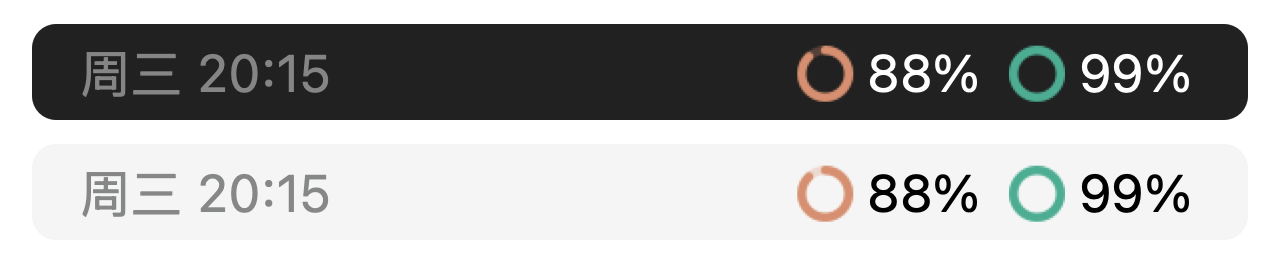
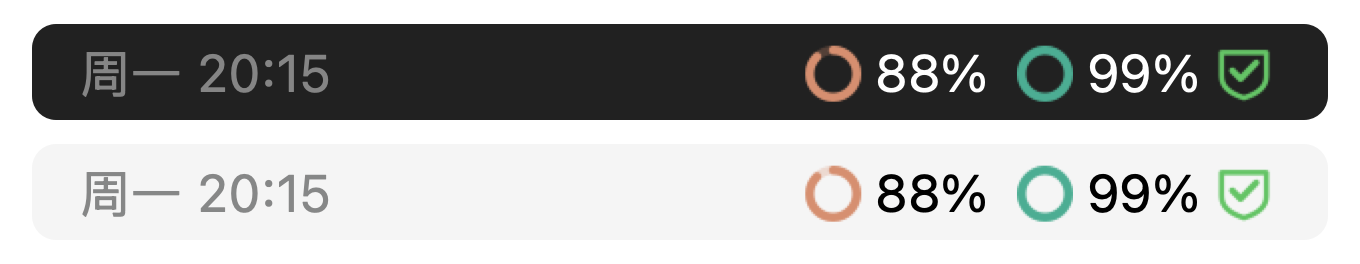
docs: 重拍所有过期截图，全部带上 IP 安全盾牌
加盾牌前拍的四张图（菜单栏/状态表/面板亮暗）与实际不符——新用户看到的
第一张图就少了盾牌。一并重生成：
- 菜单栏：环 + 环 + 绿盾
- 状态表扩成 6 行，额度告警与 IP 四态各自成行
- 面板补第三张 IP 安全卡片
- Windows 章节删掉只有两个图标的旧图（与上方三图标截图自相矛盾）

diff --git a/README.md b/README.md
@@ -88,14 +88,12 @@ Windows 通知区域每个应用只有一个 16~32px 图标位，塞不下 macOS
 
 第三个托盘图标是 **IP 安全盾牌**（见上文），左键直接跳转检测站点：
 
-![Windows 三图标](docs/screenshot-windows-tray-ip.png)
-
 <table><tr>
-  <td><img src="docs/screenshot-windows-tray.png" width="320" /></td>
-  <td><img src="docs/screenshot-windows-flyout.png" width="300" /></td>
+  <td><img src="docs/screenshot-windows-tray-ip.png" width="330" /></td>
+  <td><img src="docs/screenshot-windows-flyout.png" width="290" /></td>
 </tr></table>
 
-*实测截图（Windows 11 虚拟机，未登录浏览器，故显示错误徽标与报错卡片——这正是错误态的设计样式）*
+*实测截图（Windows 11 虚拟机）。左图三个托盘图标：Claude 环、CodeX 环、IP 安全盾牌；两个环带红色徽标是因为该虚拟机浏览器未登录，这正是错误态的样式。*
 
 **安装**：从 [Releases](https://github.com/dtzeng811/ai-limit/releases/latest) 下载 `ai-limit-tray.exe` 直接运行（无需安装）。开机自启：`Win+R` 输入 `shell:startup`，把 exe 的快捷方式放进去。新装的托盘图标默认收在 `^` 溢出区，拖到任务栏即可常显。
 
